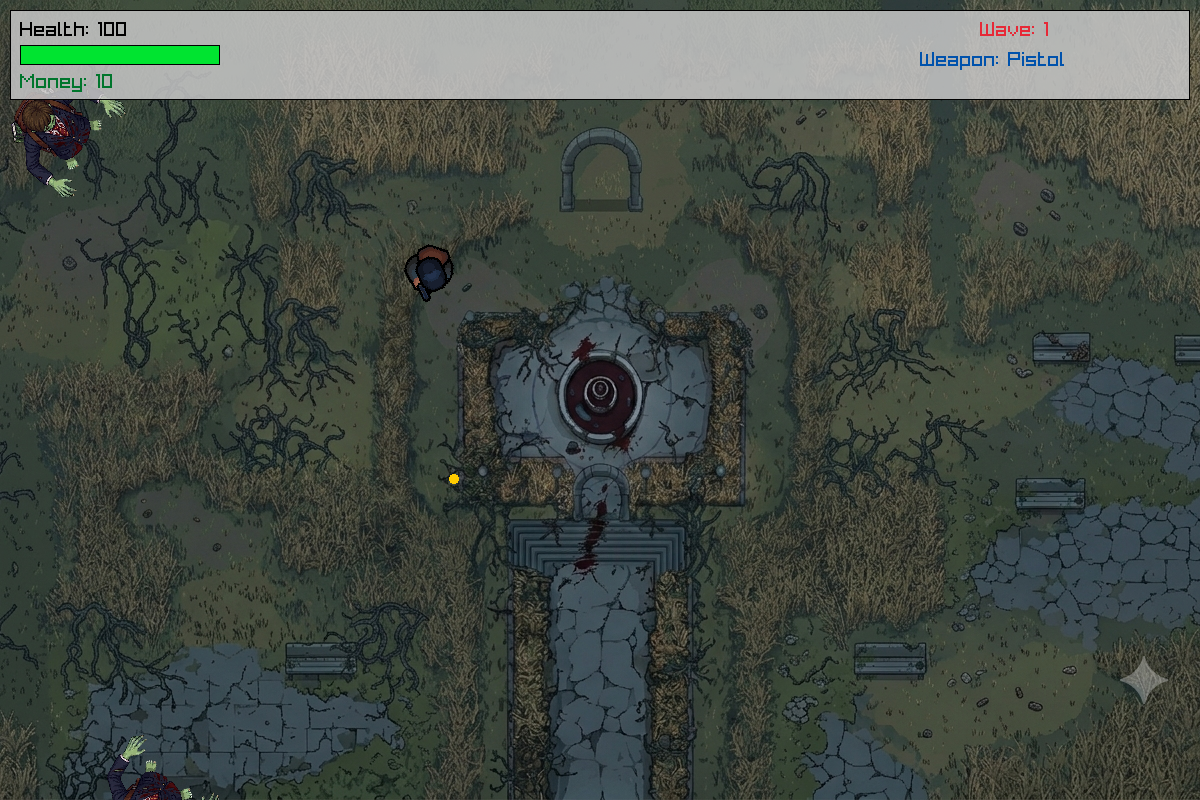
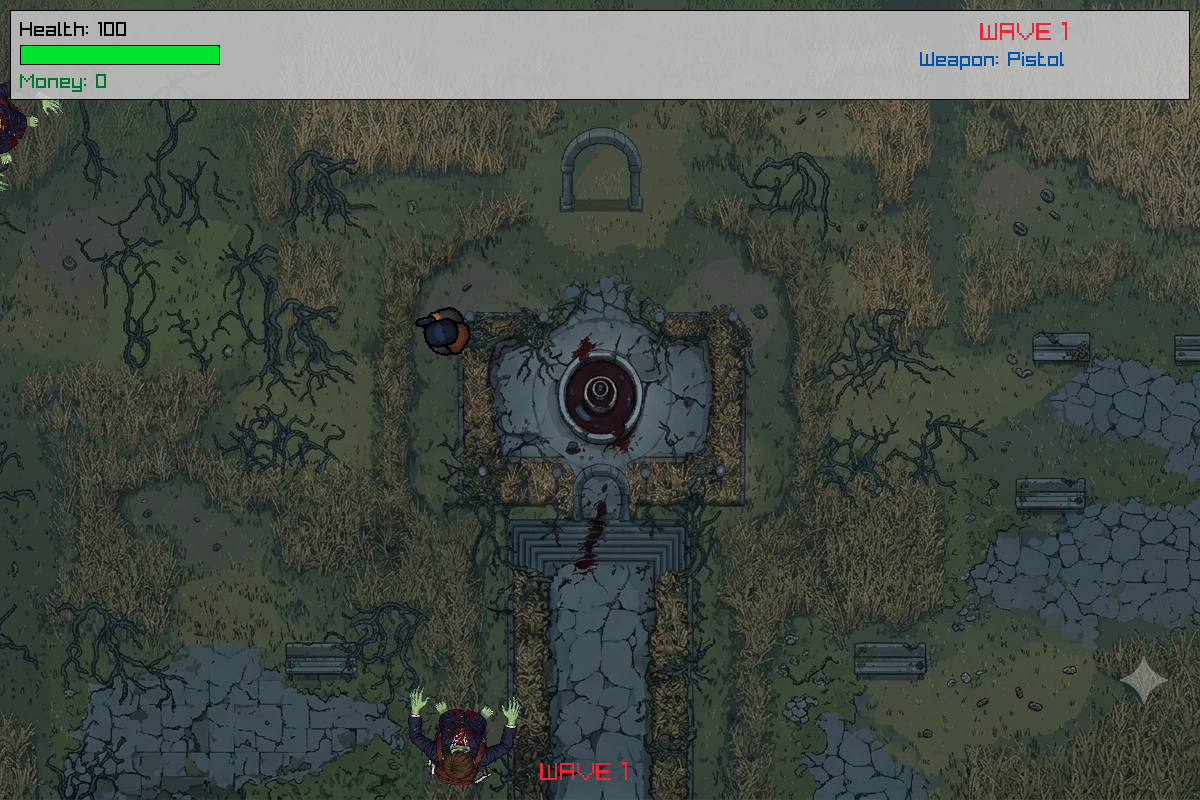
Fixed Shop Bug

diff --git a/src/main.cpp b/src/main.cpp
@@ -565,8 +565,9 @@ int main()
 
             // Draw shop menu
             shop.drawShop();
+            
 
-            DrawText("GAME PAUSED",300,20,30,YELLOW);
+            DrawText("GAME PAUSED",GetScreenWidth()/2 - MeasureText("GAME PAUSED", 30)/2, 20, 30, YELLOW);
 
 
             // The Shope Meny
